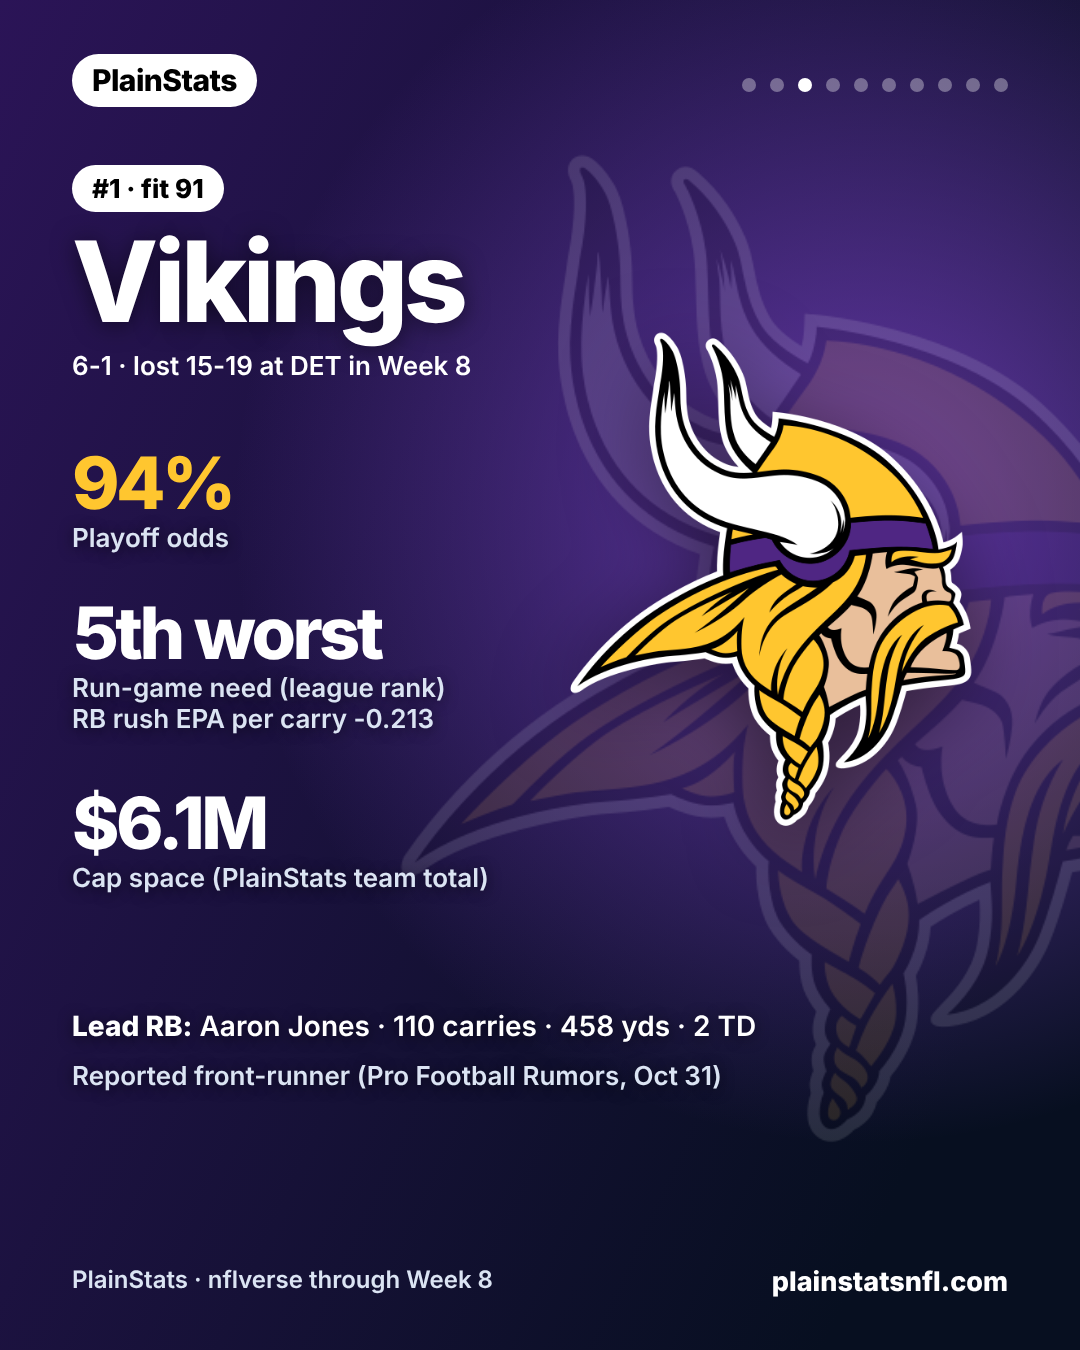
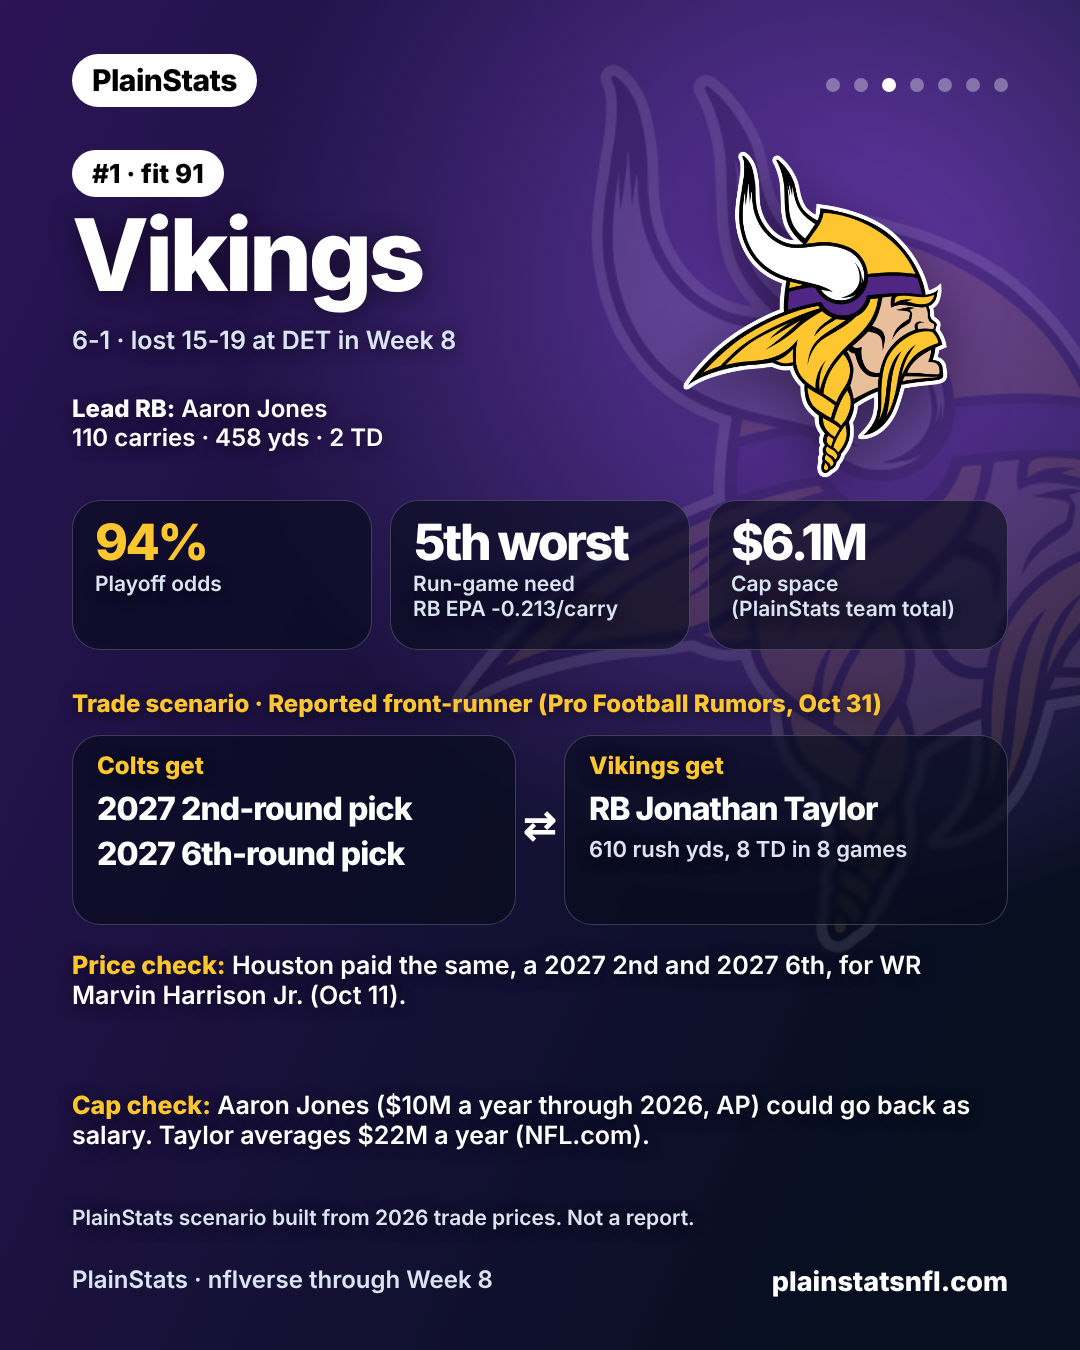
Taylor carousel: one combined slide per team (stats plus trade scenario), 7 slides
Claude-Session: https://claude.ai/code/session_01McRLt2yxNi3bsd36eWHBtU

diff --git a/post-work/make_taylor.py b/post-work/make_taylor.py
@@ -1,7 +1,7 @@
 import sys, os, json
 from playwright.sync_api import sync_playwright
 F='/home/user/fan-cap-tracker-/assets/fonts/'; HERE=os.path.dirname(os.path.abspath(__file__)); OUT=sys.argv[1]
-PH=f'{HERE}/img/jonathan-taylor.jpg'; N=10
+PH=f'{HERE}/img/jonathan-taylor.jpg'; N=7
 DATA=json.load(open(f'{HERE}/taylor_data.json'))
 TH={'IND':('#1d4fd6','#0a1d5c','#8fb4ff'),'MIN':('#7a43c8','#2b1457','#ffc62f'),'SEA':('#2f6fbf','#00152e','#69be28'),'NYG':('#2a4fb8','#071642','#ff5a73')}
 CSS=f"""
@@ -76,9 +76,27 @@ def scen(i,key,rank):
     cp=f'<div class="abs tile" style="left:72px;right:72px;top:965px;z-index:8"><div class=lab style="color:var(--a);font-weight:800;font-size:24px">Cap check</div><div class=lab style="color:#fff;font-size:28px;margin-top:8px">{sc["cap"]}</div></div>'
     body=f'<div class=eyebrow style="top:150px">Trade scenario · #{rank} {d["name"]}</div><h1 style="top:190px;font-size:84px">{sc["h"]}</h1>{left}{right}{arrow}{pr}{cp}<div class="abs lab" style="left:72px;right:72px;top:1180px;z-index:8;font-size:23px">PlainStats scenario built from 2026 trade prices. Not a report.</div>'
     return shell(i,key,body,ph)
-S.append(team(2,'MIN',1,'','',880)); S.append(scen(3,'MIN',1))
-S.append(team(4,'SEA',2,'','',960)); S.append(scen(5,'SEA',2))
-S.append(team(6,'NYG',3,'','',1040)); S.append(scen(7,'NYG',3))
+CM={'MIN':dict(price='Houston paid the same, a 2027 2nd and 2027 6th, for WR Marvin Harrison Jr. (Oct 11).',note='Aaron Jones ($10M a year through 2026, AP) could go back as salary. Taylor averages $22M a year (NFL.com).'),
+ 'SEA':dict(price='Dallas paid a 2028 2nd and a late pick for CB Joey Porter Jr. (Sep 30). Seattle sent a 2027 3rd and 2028 5th to Indianapolis for G Quenton Nelson (Oct 27).',note='Most cap space of the three. RB Emanuel Wilson is on a $1.6M deal (Pro Football Rumors).'),
+ 'NYG':dict(price='Seattle paid that for G Quenton Nelson on an expiring deal (Oct 27). Taylor is signed through 2028, so Indianapolis could ask for more.',note='The Giants already sent their 2027 5th to Minnesota for QB J.J. McCarthy (Sep 28).')}
+def combined(i,key,rank):
+    d=D[key]; c,deep,a=TH[key]; lg=f'{HERE}/img/logos/{key.lower()}.png'; sc=SC[key]; cm=CM[key]
+    ph=f'<div class=abs style="inset:0;background:radial-gradient(900px 900px at 80% 22%,{c}cc,transparent 70%),linear-gradient(115deg,{deep},#070f20 85%)"></div>'
+    ph+=f'<div class=abs style="left:360px;top:60px;width:900px;height:900px;background:url(file://{lg}) center/contain no-repeat;opacity:.10"></div>'
+    if key=='NYG': ph+='<div class=abs style="left:690px;top:150px;width:310px;height:310px;border-radius:50%;background:rgba(255,255,255,.94);box-shadow:0 18px 50px rgba(0,0,0,.5);z-index:1"></div>'
+    ph+=f'<div class=abs style="left:{725 if key=="NYG" else 650}px;top:{185 if key=="NYG" else 150}px;width:{240 if key=="NYG" else 330}px;height:{240 if key=="NYG" else 330}px;background:url(file://{lg}) center/contain no-repeat;filter:drop-shadow(0 14px 30px rgba(0,0,0,.5));z-index:2"></div>'
+    def st(x,n,l,col=False): return f'<div class="abs tile" style="left:{x}px;top:500px;width:300px;height:150px;z-index:8;padding:18px 22px"><div class=big style="font-size:50px;color:{"var(--a)" if col else "#fff"}">{n}</div><div class=lab style="margin-top:6px;font-size:21px">{l}</div></div>'
+    body=f'<div class=abs style="left:72px;top:150px;z-index:9"><span class=chip>#{rank} · fit {d["fit"]}</span></div><h1 style="top:205px;font-size:100px">{d["name"]}</h1>'
+    body+=f'<div class="abs lab" style="left:72px;top:325px;width:520px;z-index:9;font-size:25px">{d["rec"]} · {d["last"]}</div><div class="abs lab" style="left:72px;top:395px;width:520px;z-index:9;font-size:24px;color:#fff"><b style="font-weight:800">Lead RB:</b> {d["lead"].replace(" · ","<br>",1)}</div>'
+    body+=st(72,d['po'],'Playoff odds',True)+st(390,d['rk'],f'Run-game need<br>RB EPA {d["epa"]}/carry')+st(708,d['space'],'Cap space<br>(PlainStats team total)')
+    items=''.join(f'<div class=big style="font-size:32px;letter-spacing:-.03em;line-height:1.1;margin-top:10px">{x}</div>' for x in sc['col'])
+    body+=f'<div class="abs lab" style="left:72px;top:690px;z-index:9;font-size:24px;color:var(--a);font-weight:800">Trade scenario · {d["tag"]}</div>'
+    body+=f'<div class="abs tile" style="left:72px;top:735px;width:444px;height:190px;z-index:8;padding:16px 24px"><div class=lab style="color:var(--a);font-weight:800;font-size:24px">Colts get</div>{items}</div>'
+    body+=f'<div class="abs tile" style="left:564px;top:735px;width:444px;height:190px;z-index:8;padding:16px 24px"><div class=lab style="color:var(--a);font-weight:800;font-size:24px">{d["name"]} get</div><div class=big style="font-size:32px;letter-spacing:-.03em;line-height:1.1;margin-top:10px">RB Jonathan Taylor</div><div class=lab style="margin-top:10px;font-size:22px">{t["yds"]} rush yds, {t["td"]} TD in 8 games</div></div><div class="abs" style="left:516px;top:800px;width:48px;text-align:center;font-size:40px;font-weight:800;z-index:9">⇄</div>'
+    body+=f'<div class="abs lab" style="left:72px;right:72px;top:950px;z-index:8;font-size:25px;color:#fff"><b style="font-weight:800;color:var(--a)">Price check:</b> {cm["price"]}</div><div class="abs lab" style="left:72px;right:72px;top:1090px;z-index:8;font-size:25px;color:#fff"><b style="font-weight:800;color:var(--a)">Cap check:</b> {cm["note"]}</div>'
+    body+='<div class="abs lab" style="left:72px;right:72px;top:1205px;z-index:8;font-size:21px">PlainStats scenario built from 2026 trade prices. Not a report.</div>'
+    return shell(i,key,body,ph)
+S.append(combined(2,'MIN',1)); S.append(combined(3,'SEA',2)); S.append(combined(4,'NYG',3))
 # 6 summary
 ph=photo(0,0,1080,1350)+'<div class=abs style="inset:0;background:linear-gradient(180deg,rgba(7,16,31,.9),rgba(7,16,31,.8) 40%,rgba(7,16,31,.94))"></div>'
 rows=''
@@ -87,11 +105,11 @@ for k,key in enumerate(['MIN','SEA','NYG']):
     rows+=f'<div class=tile style="display:grid;grid-template-columns:96px 1fr 120px;align-items:center;gap:12px;margin-bottom:18px"><div style="width:84px;height:84px;background:url(file://{HERE}/img/logos/{key.lower()}.png) center/contain no-repeat"></div><div><div style="font-size:42px;font-weight:800;letter-spacing:-.03em">{d["name"]}</div><div class=lab style="font-size:24px">{d["rec"]} · {d["po"]} playoff · run game {d["rk"]} · {d["space"]} space</div></div><div style="text-align:right"><div class=big style="font-size:60px">{d["fit"]}</div><div class=lab style="font-size:22px">fit score</div></div></div>'
 body=f'<div class=eyebrow style="top:150px">How the three stack up</div><h1 style="top:190px;font-size:88px">Minnesota is the <em>best fit</em> on paper</h1><div class=abs style="left:72px;right:72px;top:470px;z-index:9">{rows}</div>'
 body+=f'<div class="abs lab" style="left:72px;right:72px;top:1050px;z-index:9;font-size:26px">Fit score = run-game need and playoff odds, averaged (0-100). The {D["next"]} score above the Giants on our numbers but have not been linked to him. Taylor averages $22M a year (NFL.com). All three teams have less cap space than that, and his 2026 cap hit is not in our data, so salary may have to go back to Indianapolis.</div>'
-S.append(shell(8,'MIN',body,ph))
+S.append(shell(5,'MIN',body,ph))
 # 7 closer
 ph=photo(0,250,1080,1100)+'<div class=abs style="left:0;right:0;top:0;height:640px;background:linear-gradient(180deg,#07101f 0,#07101f 48%,rgba(7,16,31,0))"></div><div class=abs style="left:0;right:0;top:760px;height:590px;background:linear-gradient(180deg,rgba(5,10,22,0),rgba(5,10,22,.95) 60%)"></div>'
 body='<div class=eyebrow style="top:150px">Where should Taylor land?</div><h1 style="top:190px;font-size:104px">Vikings, Seahawks or <em>Giants?</em></h1><div class="abs lab" style="left:72px;right:72px;top:1130px;z-index:9;font-size:28px;color:#fff">Reported interest: Giants and Vikings (Pro Football Rumors, Oct 31). Seattle is our data pick.</div>'
-S.append(shell(9,'IND',body,ph,'Photos: All-Pro Reels (CC BY-SA 2.0), CC BY 3.0'))
+S.append(shell(6,'IND',body,ph,'Photos: All-Pro Reels (CC BY-SA 2.0), CC BY 3.0'))
 with sync_playwright() as p:
     b=p.chromium.launch(executable_path='/opt/pw-browsers/chromium',args=['--no-sandbox']); pg=b.new_page(viewport={'width':1080,'height':1350})
     for i,h in enumerate(S,1):
